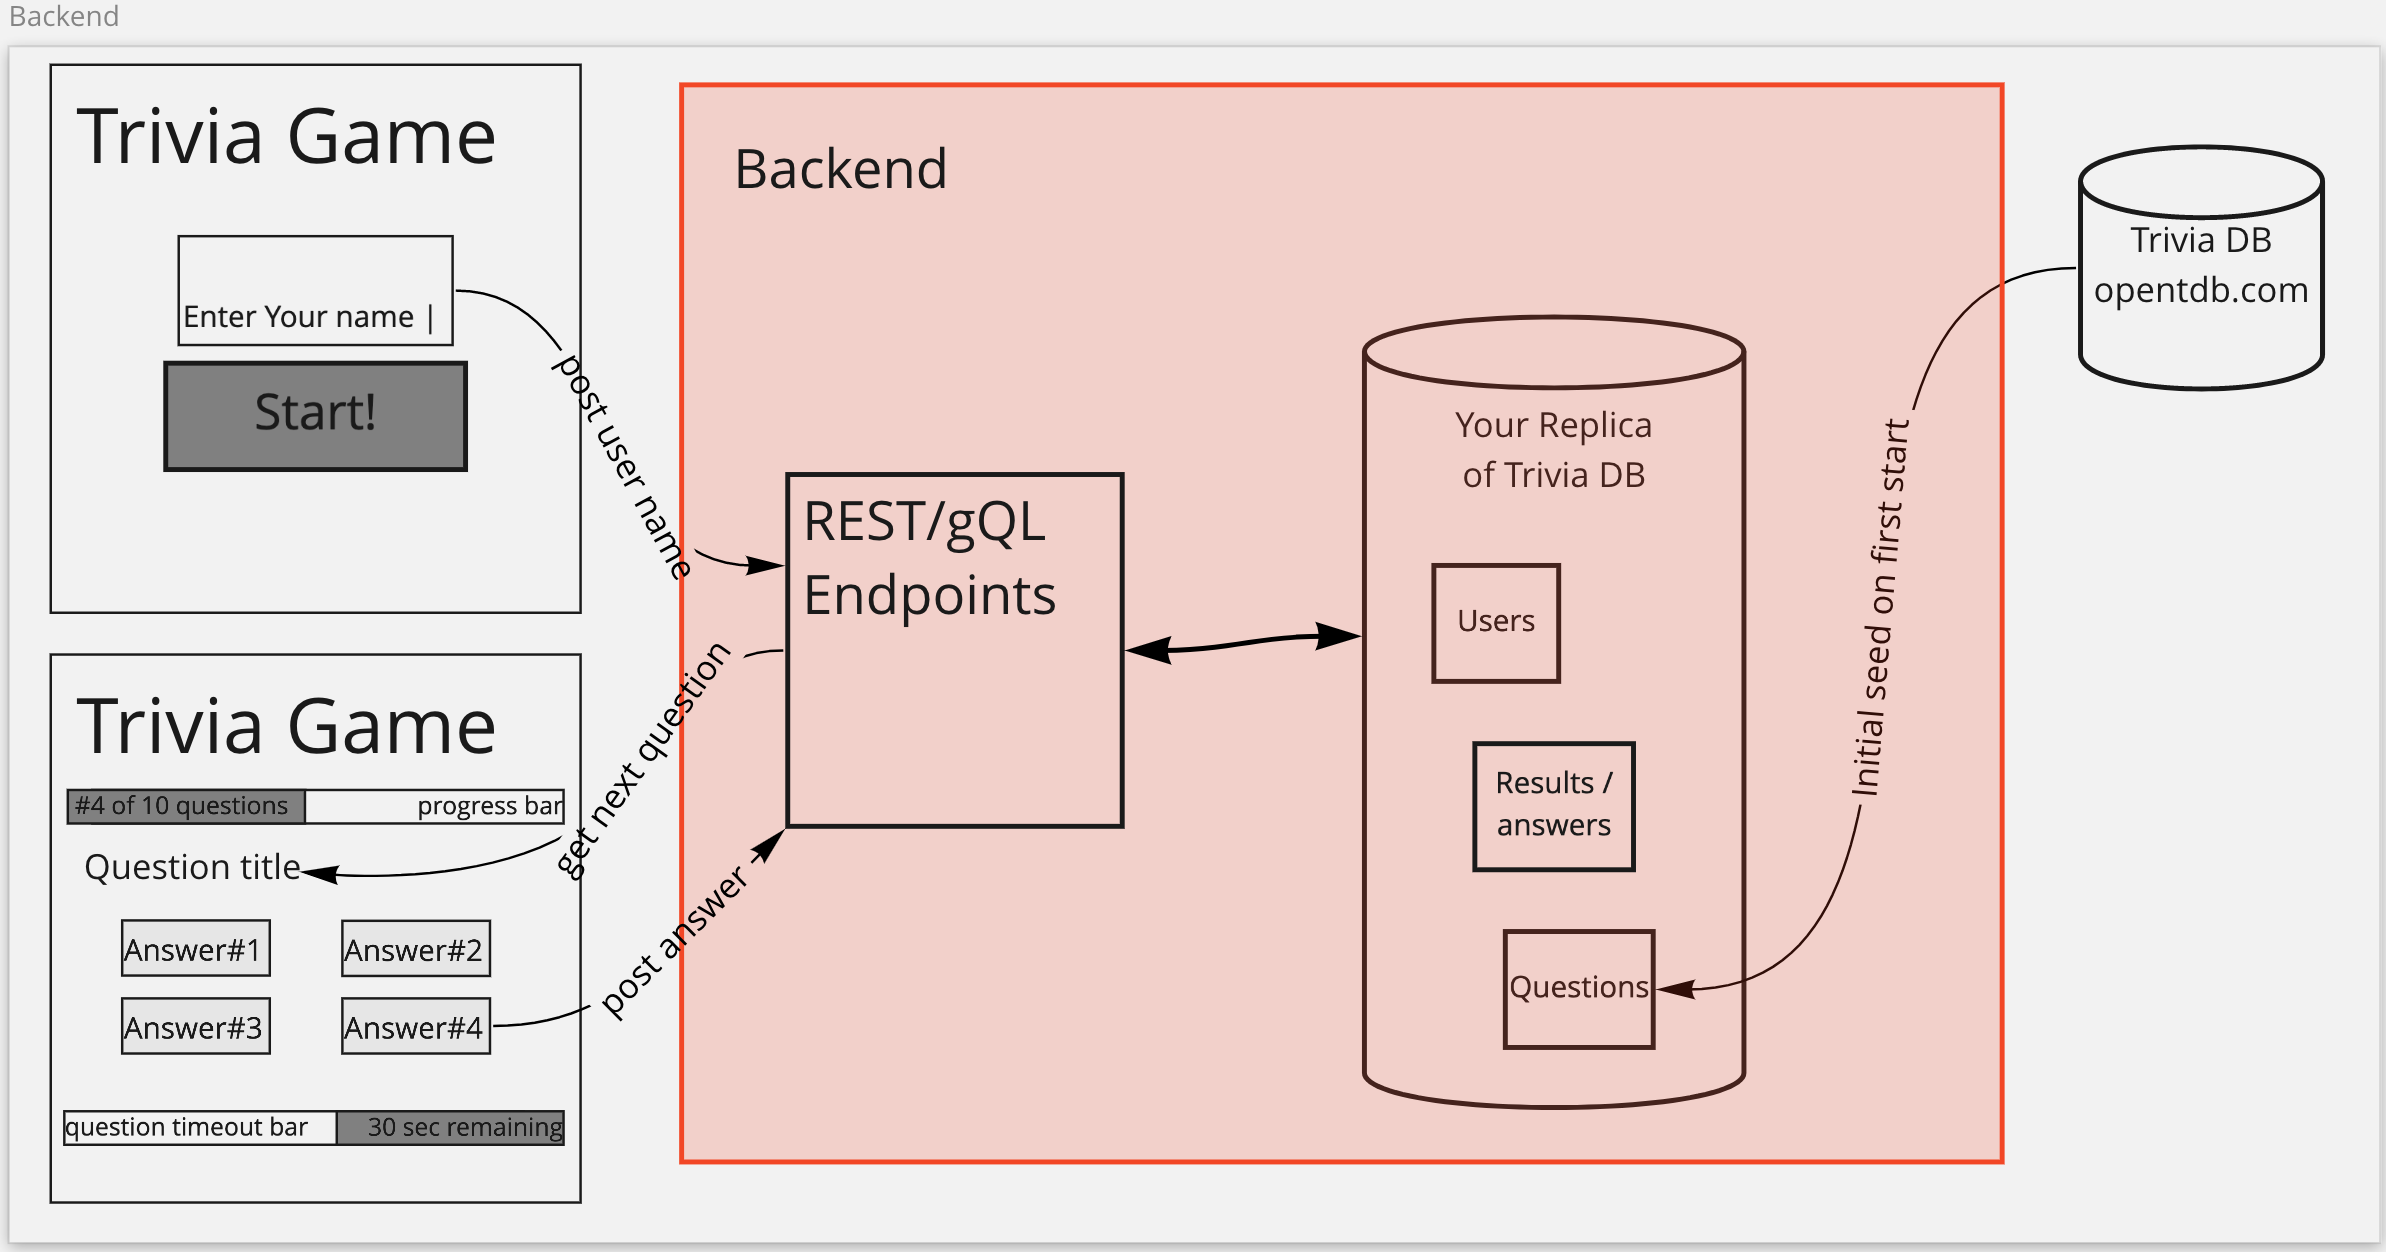
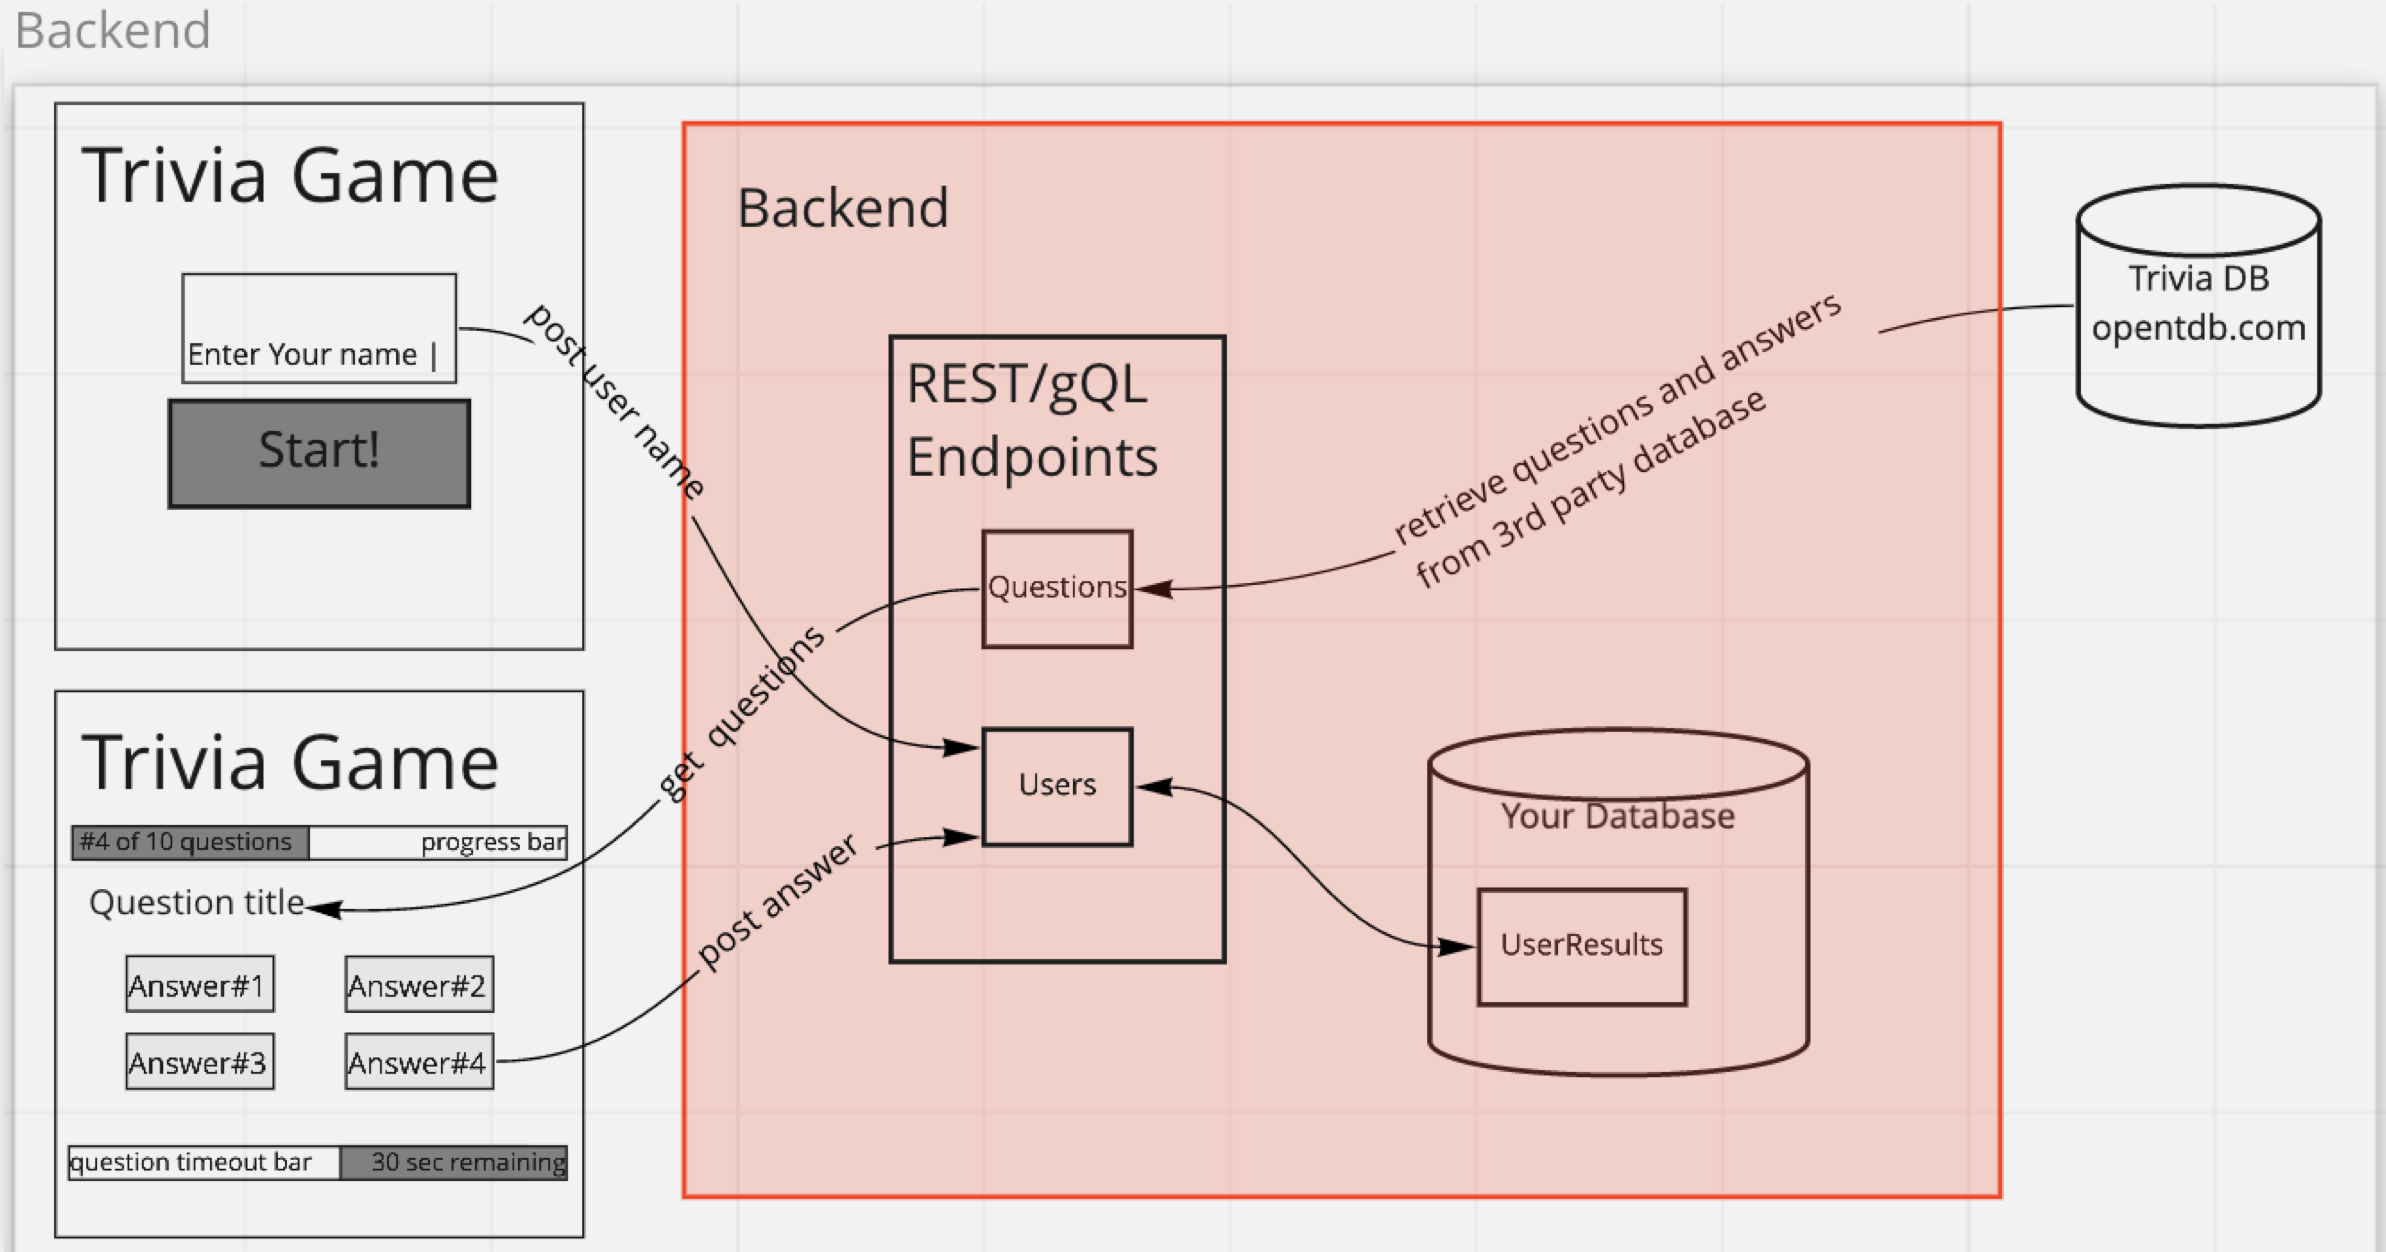
update readme

diff --git a/README.md b/README.md
@@ -27,7 +27,8 @@ You can use the following trivia questions as your question seed: https://opentd
 Please select your type to be `Multiple Choice`
 ## Fork the repo
  Please fork this repo to your private GitHub user, so that you can commit to your own repo directly.
- Please make the forked repo public. Anyway you'll benefit from having a new pet-project under your own github profile.
+ You can make your forked repo public. Anyway you'll benefit from having a new pet-project under your own github profile.
+ We expect you to send a `pull request`, merging back your forked repository to our original repository after completing your tasks defined below.
 ## Do the chore
 ### Backend tasks
 
@@ -38,19 +39,21 @@ The workflow and structure indicated in `red` is your task to implement:
 ![](trivia.backend.png)
 
 #### **Your tasks are:**
-1. constructa a local database to store trivia data (can be either noSQL, SQL or in-memory, upon your preference)
-    - users
-    - questions
-    - answers
+1. construct a local database to store trivia data (can be either noSQL, SQL or in-memory, upon your preference)
+    - with 1 table to store users and results together
 2. on first starting your backend
     - all the tables you need (questions, user, results, etc) shall be created
     - the `Trivia question list` data shall be fetched from the external Trivia DB,
     - and store int your database, as a "data seed"
 3. establish the endpoints which would serve for the frontend.
+    - and endpoint to store (=login) the user, and return the userid (better in a masked or even in JWT format)
+    - and endpoint to get the quiz questions, which shall fetch the questions from a remote 3rd party api
+    - and endpoint to update the user's quizResults
 
 This task be completed in 3-5 hours
 
 > Optional features if you still have more time:
+> - handle incoming parameters (similar to https://opentdb.com/api_config.php API, ie. number of question, difficulty)
 > - timeout handling on receiving the answer for the question
 
 ### Frontend Components and Workflow
@@ -71,7 +74,7 @@ The UI elements are already added to `apps/test-trivia`, but the data connection
 
 #### **Your tasks are**:
 1. use the provided components from `apps/test-trivia` to establish the workflow towards to the backend
-2. make api calls from frontend to backend
+2. amend and complete api calls from frontend to your new backend
 
 
 # How to work with this repo
